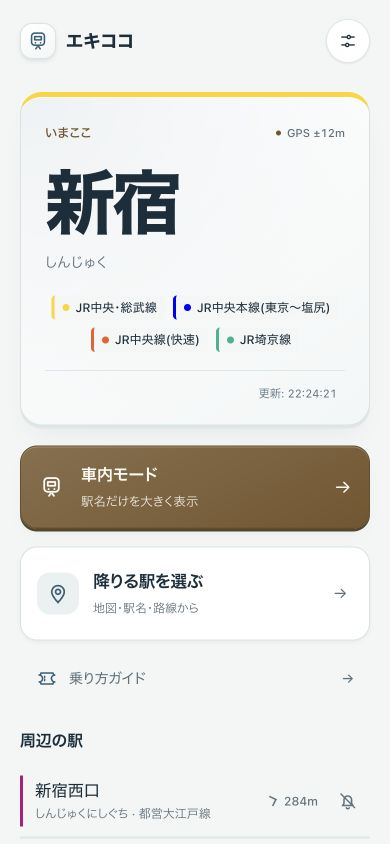
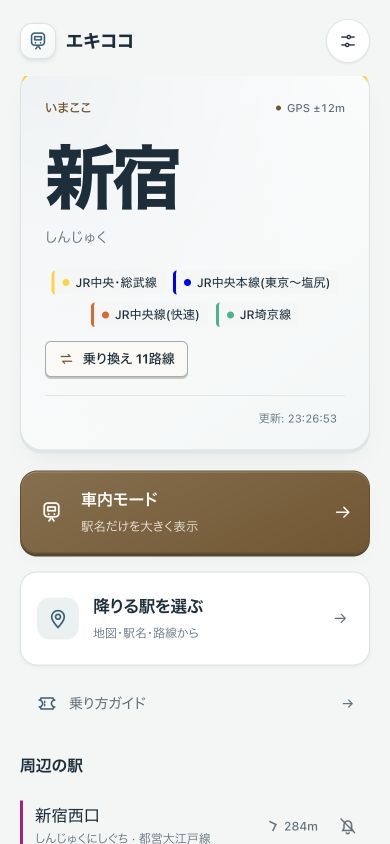
Release free transfer guide beta; defer exit guidance and align LP

diff --git a/lp.html b/lp.html
@@ -34,8 +34,8 @@
 <div class="mode-panel" id="normal-panel"><div class="experience-grid"><figure><div class="phone app-frame"><img src="assets/lp/app-current.jpg" alt="通常表示の実画面。新宿、路線、周辺の駅を表示" width="390" height="844" loading="lazy"></div><figcaption class="caption demo-note">通常表示・ライト設定／サンプル地点：新宿</figcaption></figure><div class="experience-copy"><h3>駅名、路線、その距離。<br>必要な情報をひと目で。</h3><p>現在地に近い駅を、読みやすい大きさで表示。駅から離れているときは「最寄り駅」と距離を表示します。</p><ul class="detail-list"><li>周辺の駅もまとめて確認</li><li>ライト／ダークと配色を選べる</li><li>日本語／英語を切り替えられる</li></ul><p class="caption">表示はGPSによる推定です。地下・トンネル内など、位置情報を取得しにくい場所では更新できないことがあります。</p></div></div></div>
 <div class="mode-panel" id="onboard-panel" hidden><div class="experience-grid"><figure><div class="phone app-frame"><img src="assets/lp/app-onboard.jpg" alt="車内モードの実画面。黒い背景に新宿を大きく表示" width="390" height="844" loading="lazy"></div><figcaption class="caption demo-note">車内モード／サンプル地点：新宿</figcaption></figure><div class="experience-copy"><h3>手元で一瞬、<br>駅名を確かめたいときに。</h3><p>通常画面の「車内モード」を押すと、黒背景の大きな駅名表示へ。戻るボタンで、いつもの画面に戻れます。</p><ul class="detail-list"><li>駅名を中心にしたシンプルな画面</li><li>最寄り駅を示すときは距離も表示</li><li>車内モードは基本機能として利用可能</li></ul><p class="caption">位置情報の取得状況は通常表示と共通です。列車の運行情報と連動した案内ではありません。</p></div></div></div>
 </div></section>
-<section class="section"><div class="wrap guide-grid"><div class="split-copy guide-copy"><p class="eyebrow">駅に着いてからも。</p><h2>改札の前の迷いを、<br>動く図でほどく。</h2><p>カードをタッチする場所や、きっぷを入れる位置。文字だけでは分かりにくい手順を、短いアニメーションで確認できます。</p><div class="tags" aria-label="ガイドの種類"><span>ICカード</span><span>QR</span><span>きっぷ</span><span>JR Pass</span></div><p>精算や乗り換えの基本も収録。必要なところだけ、繰り返して見られます。</p><a class="text-link" href="./">アプリを開いてガイドを見る →</a><p class="caption guide-caption">ガイドは一般的な手順です。対応する改札や乗車券は、駅の表示に従ってください。</p></div><figure><div class="guide-stage"><div class="phone guide-phone"><img src="assets/lp/app-guide.jpg" alt="実際のICカードガイド。改札・カードの図、再生ボタン、番号付き手順" width="390" height="844" loading="lazy"></div></div><figcaption class="caption demo-note">アプリ内「乗り方ガイド」の実画面（静止画）</figcaption></figure></div></section>
-<section id="features"><div class="wrap features"><div class="section-heading"><p class="eyebrow">いま、使える機能。</p><h2>まずは駅を確認。<br>必要なら、もうひとつ便利に。</h2><p>エキココはベータ版です。基本機能と、試せる追加機能を分けて案内しています。</p></div><div class="feature-columns"><div class="feature-group"><h3>基本機能 <span class="status-pill">登録不要</span></h3><ul><li>近くの駅・路線・距離の表示</li><li>駅名を大きく表示する車内モード</li><li>乗り方ガイド・表示設定</li></ul><p>アプリを開き、位置情報を許可すると、駅の確認を始められます。</p></div><div class="feature-group"><h3>EKIKOKO Plus <span class="status-pill">現在はデモ</span></h3><ul><li>目的地の駅検索・地図での確認</li><li>設定した駅に近づいたときの降車アラート</li><li>移動方向を使った次の駅の予測</li><li>乗車履歴・路線による絞り込み</li></ul><p><strong>現在の公開版は、料金の請求がないデモです。</strong><br>アプリ内の「EKIKOKO Plus」から有効にして試せます。目的地の検索・設定と降車アラートにはPlusが必要です。</p></div></div><p class="feature-note">次駅は運行情報ではなく推定です。降車アラートは位置情報の更新が前提となり、画面ロック中やバックグラウンドでの通知は保証されません。車内の表示・放送もあわせて確認してください。</p></div></section>
+<section class="section"><div class="wrap guide-grid"><div class="split-copy guide-copy"><p class="eyebrow">駅に着いてからも。</p><h2>改札の前の迷いを、<br>動く図でほどく。</h2><p>カードをタッチする場所や、きっぷを入れる位置。文字だけでは分かりにくい手順を、短いアニメーションで確認できます。</p><div class="tags" aria-label="ガイドの種類"><span>ICカード</span><span>QR</span><span>きっぷ</span><span>JR Pass</span></div><p>精算や乗り換えの基本も収録。必要なところだけ、繰り返して見られます。</p><a class="text-link" href="./">アプリを開いてガイドを見る →</a><p>駅名の下の「乗り換え」から、その駅の路線や近くの駅への徒歩移動の目安も確認できます。内蔵駅データの対応範囲で利用できます。</p><p class="caption guide-caption">ガイドは一般的な手順です。対応する改札や乗車券は、駅の表示に従ってください。</p></div><figure><div class="guide-stage"><div class="phone guide-phone"><img src="assets/lp/app-guide.jpg" alt="実際のICカードガイド。改札・カードの図、再生ボタン、番号付き手順" width="390" height="844" loading="lazy"></div></div><figcaption class="caption demo-note">アプリ内「乗り方ガイド」の実画面（静止画）</figcaption></figure></div></section>
+<section id="features"><div class="wrap features"><div class="section-heading"><p class="eyebrow">いま、使える機能。</p><h2>まずは駅を確認。<br>必要なら、もうひとつ便利に。</h2><p>エキココはベータ版です。基本機能と、試せる追加機能を分けて案内しています。</p></div><div class="feature-columns"><div class="feature-group"><h3>基本機能 <span class="status-pill">登録不要</span></h3><ul><li>近くの駅・路線・距離の表示</li><li>駅名を大きく表示する車内モード</li><li>乗り換え路線・改札・徒歩移動の目安</li><li>乗り方ガイド・表示設定</li></ul><p>アプリを開き、位置情報を許可すると、駅の確認を始められます。</p></div><div class="feature-group"><h3>EKIKOKO Plus <span class="status-pill">現在はデモ</span></h3><ul><li>目的地の駅検索・地図での確認</li><li>設定した駅に近づいたときの降車アラート</li><li>移動方向を使った次の駅の予測</li><li>乗車履歴・路線による絞り込み</li></ul><p><strong>現在の公開版は、料金の請求がないデモです。</strong><br>アプリ内の「EKIKOKO Plus」から有効にして試せます。目的地の検索・設定と降車アラートにはPlusが必要です。</p></div></div><p class="feature-note">次駅は運行情報ではなく推定です。降車アラートは位置情報の更新が前提となり、画面ロック中やバックグラウンドでの通知は保証されません。車内の表示・放送もあわせて確認してください。</p></div></section>
 <section class="section" id="start"><div class="wrap"><div class="start-grid"><div class="section-heading"><p class="eyebrow">インストールなしで、まず一度。</p><h2>開いて、許可して、<br>駅を見る。</h2><p>気に入ったら、ブラウザのメニューからホーム画面へ。次からすぐに開けます。</p></div><ol class="steps"><li><h3>アプリを開く</h3><p>「現在地を確認する」をタップ。アカウント登録は不要です。</p></li><li><h3>位置情報を許可する</h3><p>現在地をもとに、近くの駅を判定します。許可しない場合は、現在地からの駅表示を利用できません。</p></li><li><h3>駅名を確認する</h3><p>大きく見たいときは「車内モード」へ。乗り方ガイドも利用できます。目的地を探すときは、Plusのデモを有効にしてください。</p></li></ol></div>
 <div class="faq"><h2>使う前に、知っておきたいこと。</h2><div class="faq-list"><details><summary>全国どこでも使えますか？</summary><p>首都圏・関西はアプリに内蔵した駅データを使用します。それ以外の地域ではオンラインで周辺の駅データを取得するため、通信やデータの状況に左右されます。Plusの目的地検索は全国の駅が対象です。</p></details><details><summary>地下鉄やトンネルでも駅が分かりますか？</summary><p>GPSが取得できない場所では、駅の更新が止まったり、表示が実際の位置とずれたりすることがあります。列車の運行システムとは接続していないため、車内の表示・放送も確認してください。</p></details><details><summary>位置情報や乗車履歴は保存されますか？</summary><p>正確な座標を運営者のサーバーへ送信・保存しません。内蔵データの圏外では、駅データ取得のため約1km単位に丸めた座標を外部サービスへ送信します。Plusの乗車履歴や目的地・設定は端末内に保存され、アプリの「データ削除」で消せます。詳しくは<a href="privacy.html">プライバシーポリシー</a>をご覧ください。</p></details><details><summary>閉じていても、降りる前に通知されますか？</summary><p>常時通知を保証する仕組みではありません。降車アラートは、アプリが位置情報を更新できる間に動作します。通知・音・振動の可否は端末やブラウザ、許可設定にも依存します。</p></details></div></div></div></section>
 <section class="final"><div class="wrap final-row"><div><h2>次の移動で、<br>手元にエキココを。</h2><p>近くの駅を確認する、小さな道具。登録不要で始められます。</p></div><a class="button" href="./">エキココを開く <span class="arrow" aria-hidden="true">→</span></a></div></section>

diff --git a/sw.js b/sw.js
@@ -1,6 +1,6 @@
 "use strict";
 
-const CACHE_NAME = "ekikoko-v50";
+const CACHE_NAME = "ekikoko-v51";
 const ASSETS = [
   "./","index.html","privacy.html","style.css","app-design.css","app.js","config.js","stations.js",
   "manifest.json","icon.svg","icon-512.png","apple-touch-icon.png","lp.html",

diff --git a/docs/releases/2026-10-16-transfer-beta.md b/docs/releases/2026-10-16-transfer-beta.md
@@ -1,0 +1,26 @@
+# 乗り換え案内のベータ公開 — 2026-10-16
+
+## 公開方針
+オーナーから「出口案内を付けたいが、一旦世に出すのを優先する」と指示。出口案内の追加は後続に回し、Claudeの実装済み乗り換え案内を既存の無料設定のまま公開する。
+
+## 取り込む変更
+- Claude `be42586`：乗り換え案内の追加。
+- Claude `19470a0`：東京メトロ等の例外・運営会社・徒歩距離の説明の修正。
+- 本番の親 `f269911` から2コミット先・遅れなしを確認。LP刷新を含む既存変更を保持する。
+- 内蔵駅データから、その駅の路線と500m圏内の徒歩候補を表示する。距離は直線距離。構内経路・歩行時間・列車時刻を保証する案内ではない。
+- 目的地検索・降車通知のPlus区分は従来どおり。乗り換え案内自体は無料。
+- LPに新機能・対応範囲を追記。通常画面のサンプルを追加後の実画面へ更新。
+
+## 検証
+- Codex: 固定した新宿のテスト座標で、Plus未有効の状態でも乗り換え案内が開くことをChromeで確認。
+- 英語390px、日本語320px・390pxで駅名・乗り換え案内を確認。横はみ出しなし。
+- 閉じる・Escape・表示設定、車内モードから戻る、既存ICガイドを確認。ブラウザのエラーログは空。
+- Claudeの2コミットに記載された検証報告は参考情報。今回、全駅での案内精度・列車内GPS・実地徒歩経路は再試験していない。
+- 公開前にJS構文、HTML ID、オフラインアセット、差分を確認する。
+- 固定座標を埋め込んだローカル確認用HTMLはコミットしない。
+
+## 次の担当への連絡
+- 公開先ブランチは `claude/practical-babbage-xrtvmo`。`claude/exit-guide` の実装を含む版をここへ反映する。
+- 出口案内の名称を新機能の宣伝に使わない。今回実装したのは乗り換え路線・改札・徒歩移動の目安。
+- 出口案内は別途データと範囲を確認してから進める。今回の公開の待ち条件にしない。
+- 告知文は `docs/launch.md`。実際のSNS投稿やメッセージ送信は、この公開作業では行っていない。

diff --git a/docs/decision-log.md b/docs/decision-log.md
@@ -14,6 +14,13 @@ AIは、決定事項と矛盾する作業をする前に、ここを確認する
 
 ---
 
+## 2026-10-16 出口案内を後続に回し、既存版の公開を優先
+- 方針: オーナーの「出口案内を付けたいが、一旦世に出すのを優先する」という指示を受け、出口案内は今回追加しない
+- 公開範囲: Claudeの乗り換え案内2コミットを、既存の無料実装のままベータ版へ反映する
+- 補足: 改札・路線・徒歩移動の目安であり、時刻・経路検索や出口番号・号車位置の案内ではない
+- 整合: LPに無料の乗り換え案内と対応範囲を追記し、アプリの掲載画面を更新する
+- 詳細: `docs/releases/2026-10-16-transfer-beta.md`
+
 ## 2026-10-13 LPと実装の内容を揃え、実画面主体に改善
 - 依頼: LPとアプリの差異・取り入れるべき点を確認し、LPデザインを改善する
 - 反映: 実装にない画面モックを実画面に交換。GPS推定、Plusデモ、機能区分、利用条件を明示する
